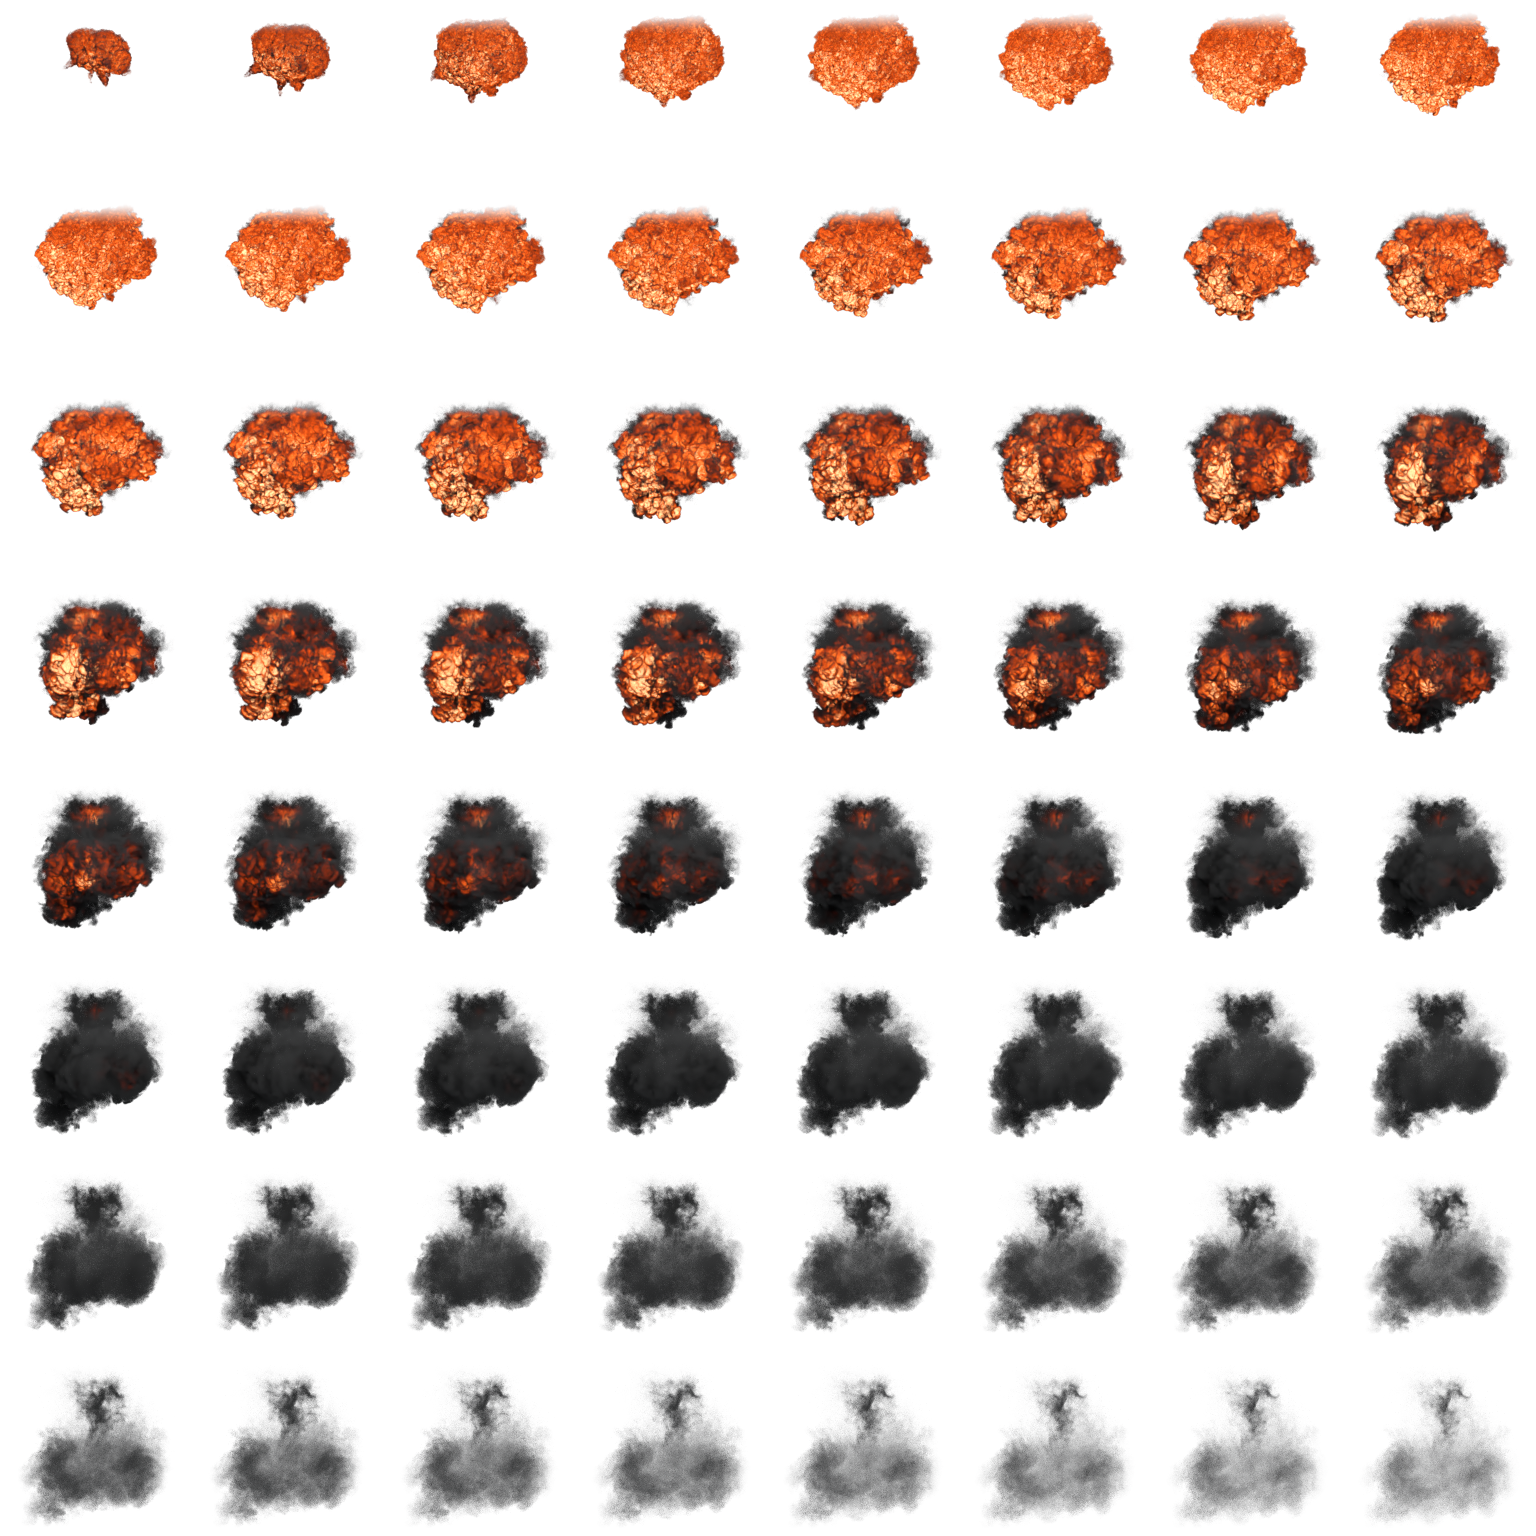
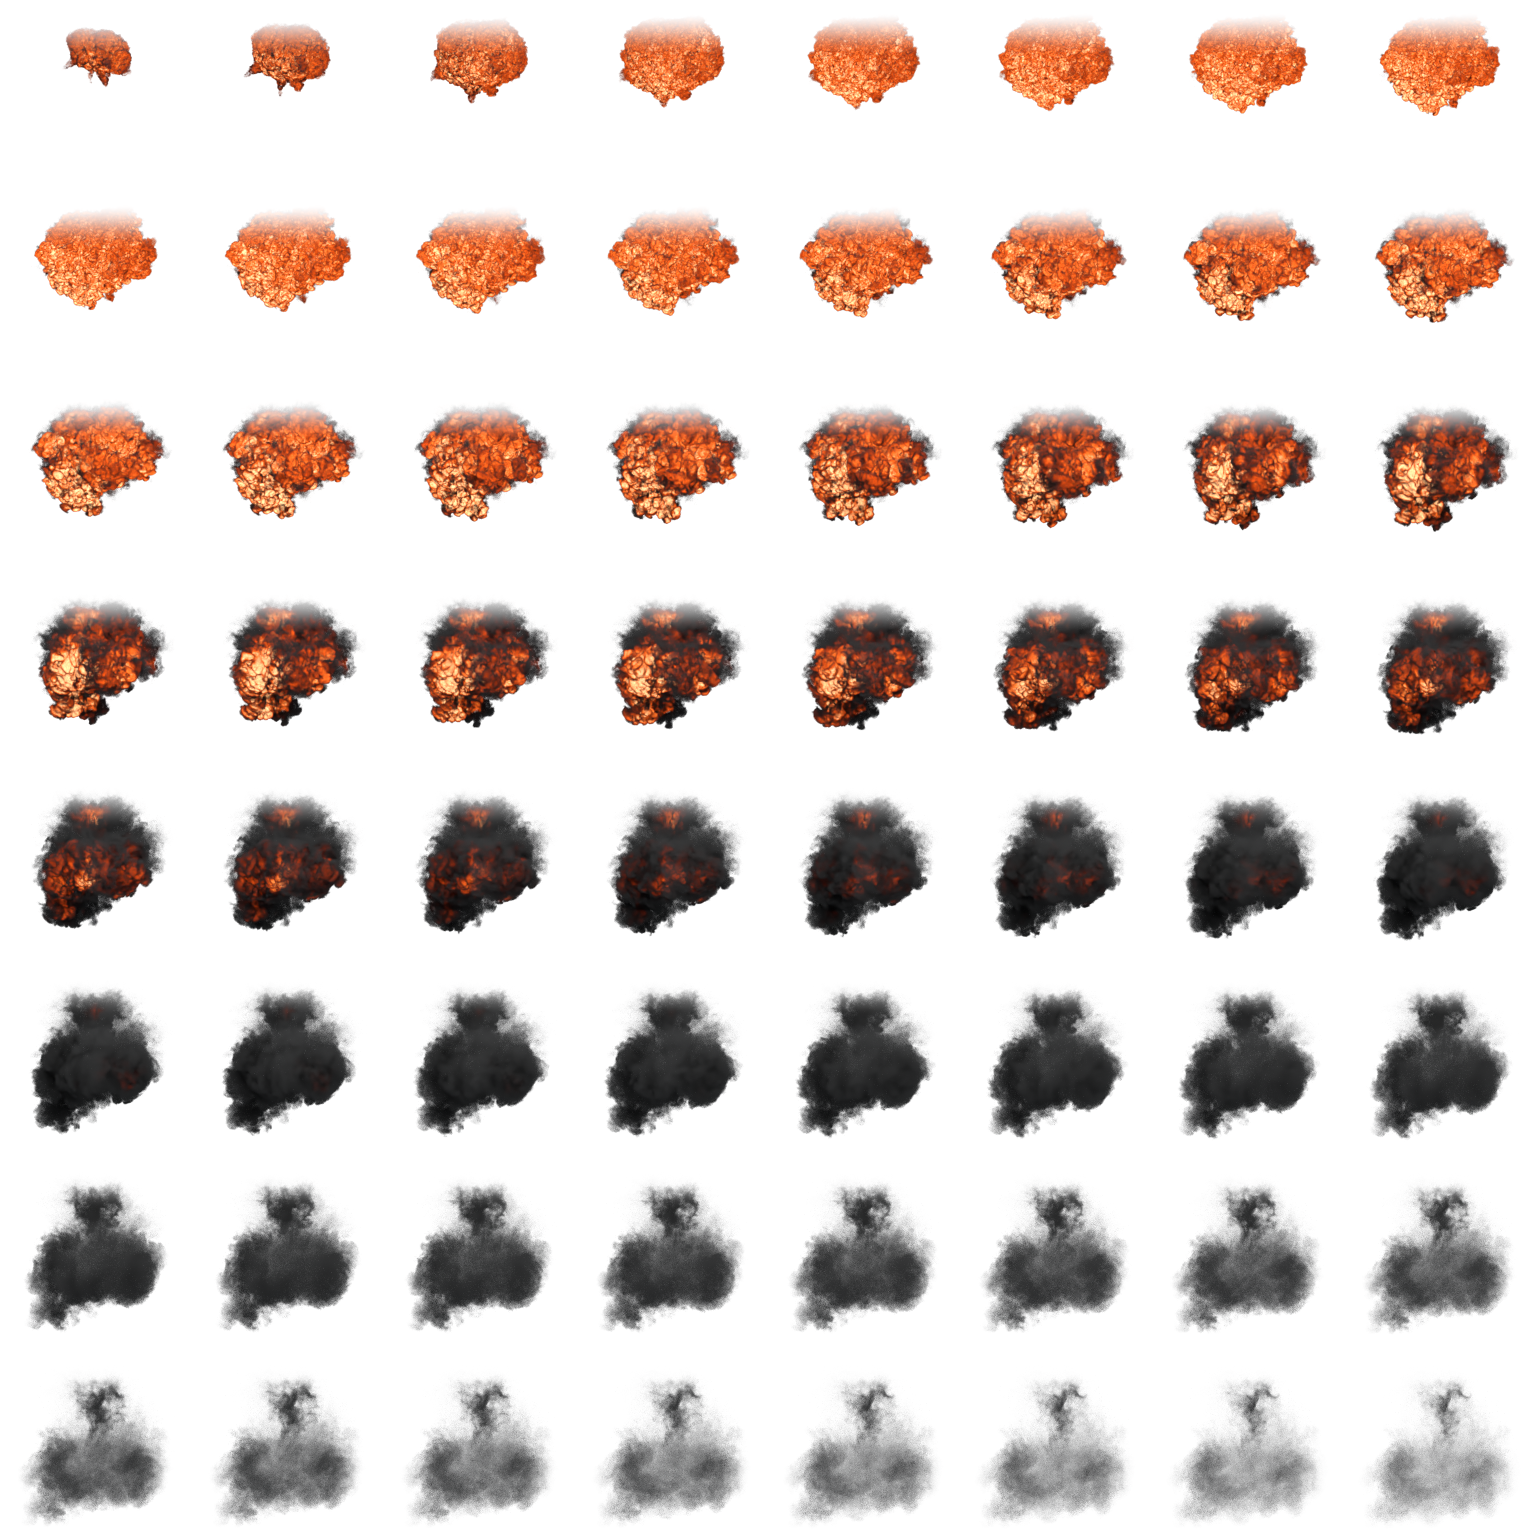
feat(art): м'який верх вибуху й спалаху

diff --git a/tools/blender/vfx/assemble.py b/tools/blender/vfx/assemble.py
@@ -19,10 +19,10 @@ ATLAS = {
                               lab=(35, 45), tgt_L=40, amax=0.35, ab=((-1, 2), (-3, 4))),
     "wreck_fire": dict(src="wreck_fire", kind="loop", n=64, cols=16, rows=4, fps=8, bonfire=1, raw=1, m=2.93, sway=0.05,
                             lab=None),
-    "explosion": dict(src="explosion", kind="once", n=64, cols=8, rows=8, fps=48, m=22.4, lab=None),
+    "explosion": dict(src="explosion", kind="once", topramp=(0.06, 0.30), n=64, cols=8, rows=8, fps=48, m=22.4, lab=None),
     "dirt_burst": dict(src="dirt_burst", kind="once", n=64, cols=8, rows=8, fps=40, m=13.7, desat=0.65,
                        lab=(28, 38), tgt_L=33, ab=((2, 4), (6, 10))),
-    "impact_flash": dict(src="flash", kind="once", tail=6, n=16, cols=4, rows=4, fps=60, m=6.7, lab=None),
+    "impact_flash": dict(src="flash", kind="once", tail=6, topramp=(0.06, 0.26), n=16, cols=4, rows=4, fps=60, m=6.7, lab=None),
 }
 GRASS = np.array([92, 104, 70], np.float32) / 255  # muted late-autumn grass, L* ~ 41
 CM_PX = (7, 22)  # closest / farthest zoom, cm per screen pixel
@@ -254,6 +254,10 @@ def process(cfg, frames):
             al = np.clip(o[..., 3:], 1e-6, 1)
             fr[i] = np.concatenate([np.clip(o[..., :3] / al, 0, 1), al], -1)
     wy, _ = window(H)
+    if cfg.get("topramp"):  # the sim box ends in a straight cut near the top; fade it out more gently there
+        z, f_ = cfg["topramp"]
+        t = np.clip((np.arange(H) / (H - 1) - z) / (f_ - z), 0, 1)
+        wy = np.minimum(wy, t * t * (3 - 2 * t))
     _, wx = window(fr.shape[2])
     fr = fr.copy()
     fr[..., 3] *= wy[None, :, None] * wx[None, None, :]
